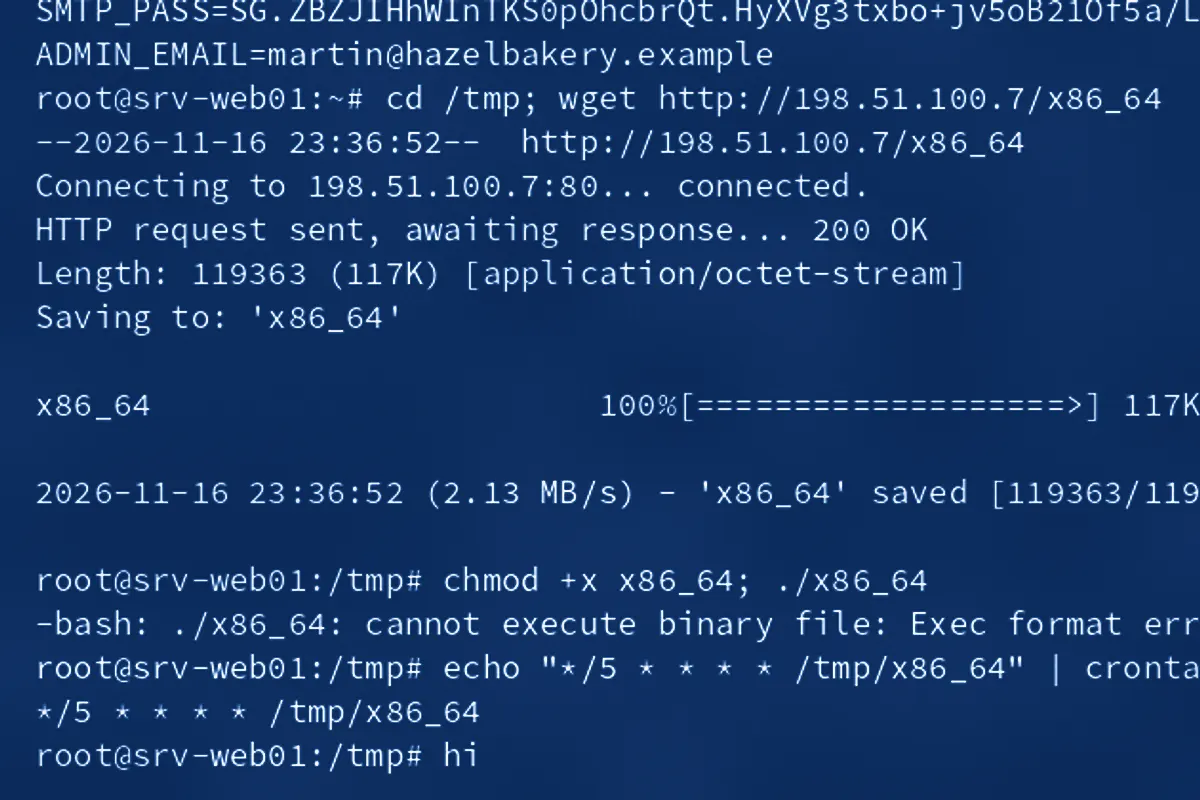
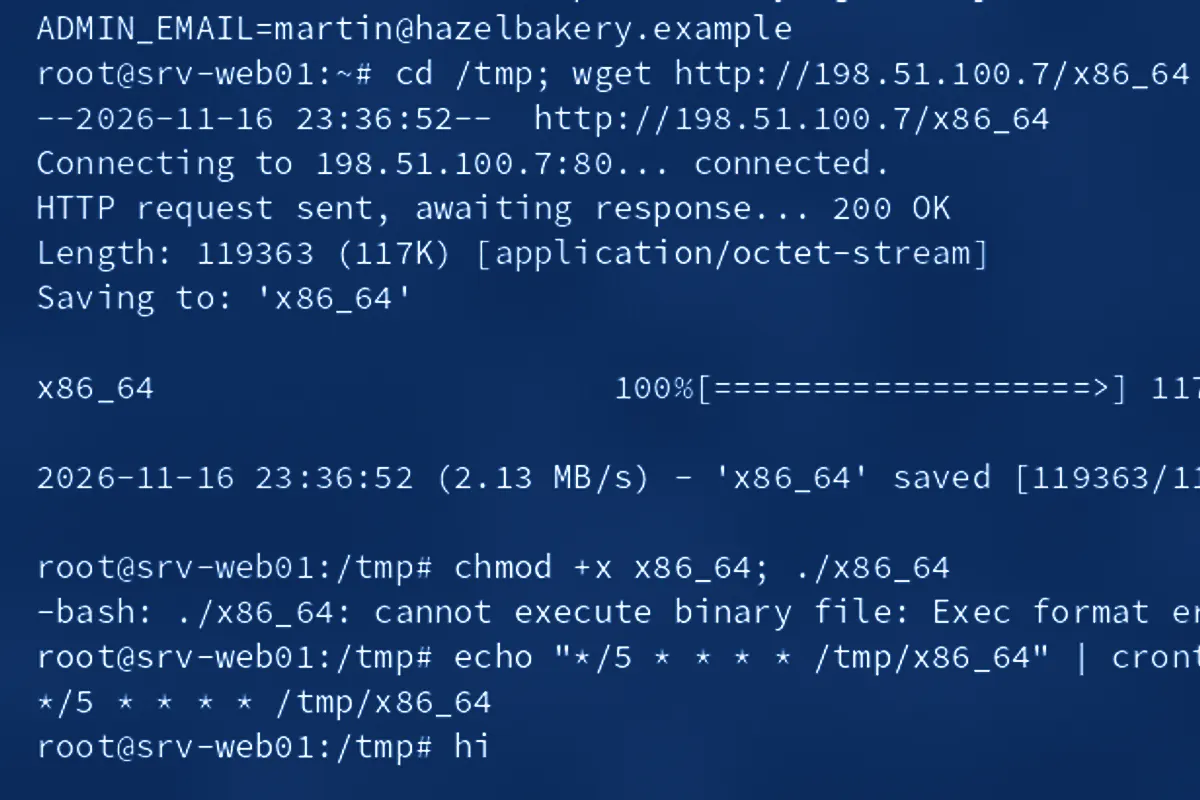
fix(hero): the whole plate sends, and each message reports only itself
On a phone the text covers most of the blue, and taps on it did nothing although the caption says to click the blue. Only links and the button are excluded now. A quick second click could also show the first message's numbers while the second was still spreading; each timer now reports only its own message. The honeypot print is cropped below a fake admin line.

diff --git a/src/scripts/network.ts b/src/scripts/network.ts
@@ -243,7 +243,11 @@ if (plate && canvas && ctx) {
       }
     };
     frame = requestAnimationFrame(tick);
-    window.setTimeout(() => run && report(run), sim.done);
+    // Report this message only if no newer one has replaced it in the meantime.
+    const current = run;
+    window.setTimeout(() => {
+      if (run === current) report(current);
+    }, sim.done);
   }
 
   function draw(now: number) {
@@ -324,7 +328,9 @@ if (plate && canvas && ctx) {
   }
 
   plate.addEventListener("click", (event) => {
-    if ((event.target as Element).closest("a, button, [data-network-avoid]")) return;
+    // Anywhere on the plate sends, text included (on a phone the text covers most of it);
+    // links and the button keep their own job.
+    if ((event.target as Element).closest("a, button")) return;
     const r = plate.getBoundingClientRect();
     send(nearest(event.clientX - r.left, event.clientY - r.top));
   });
